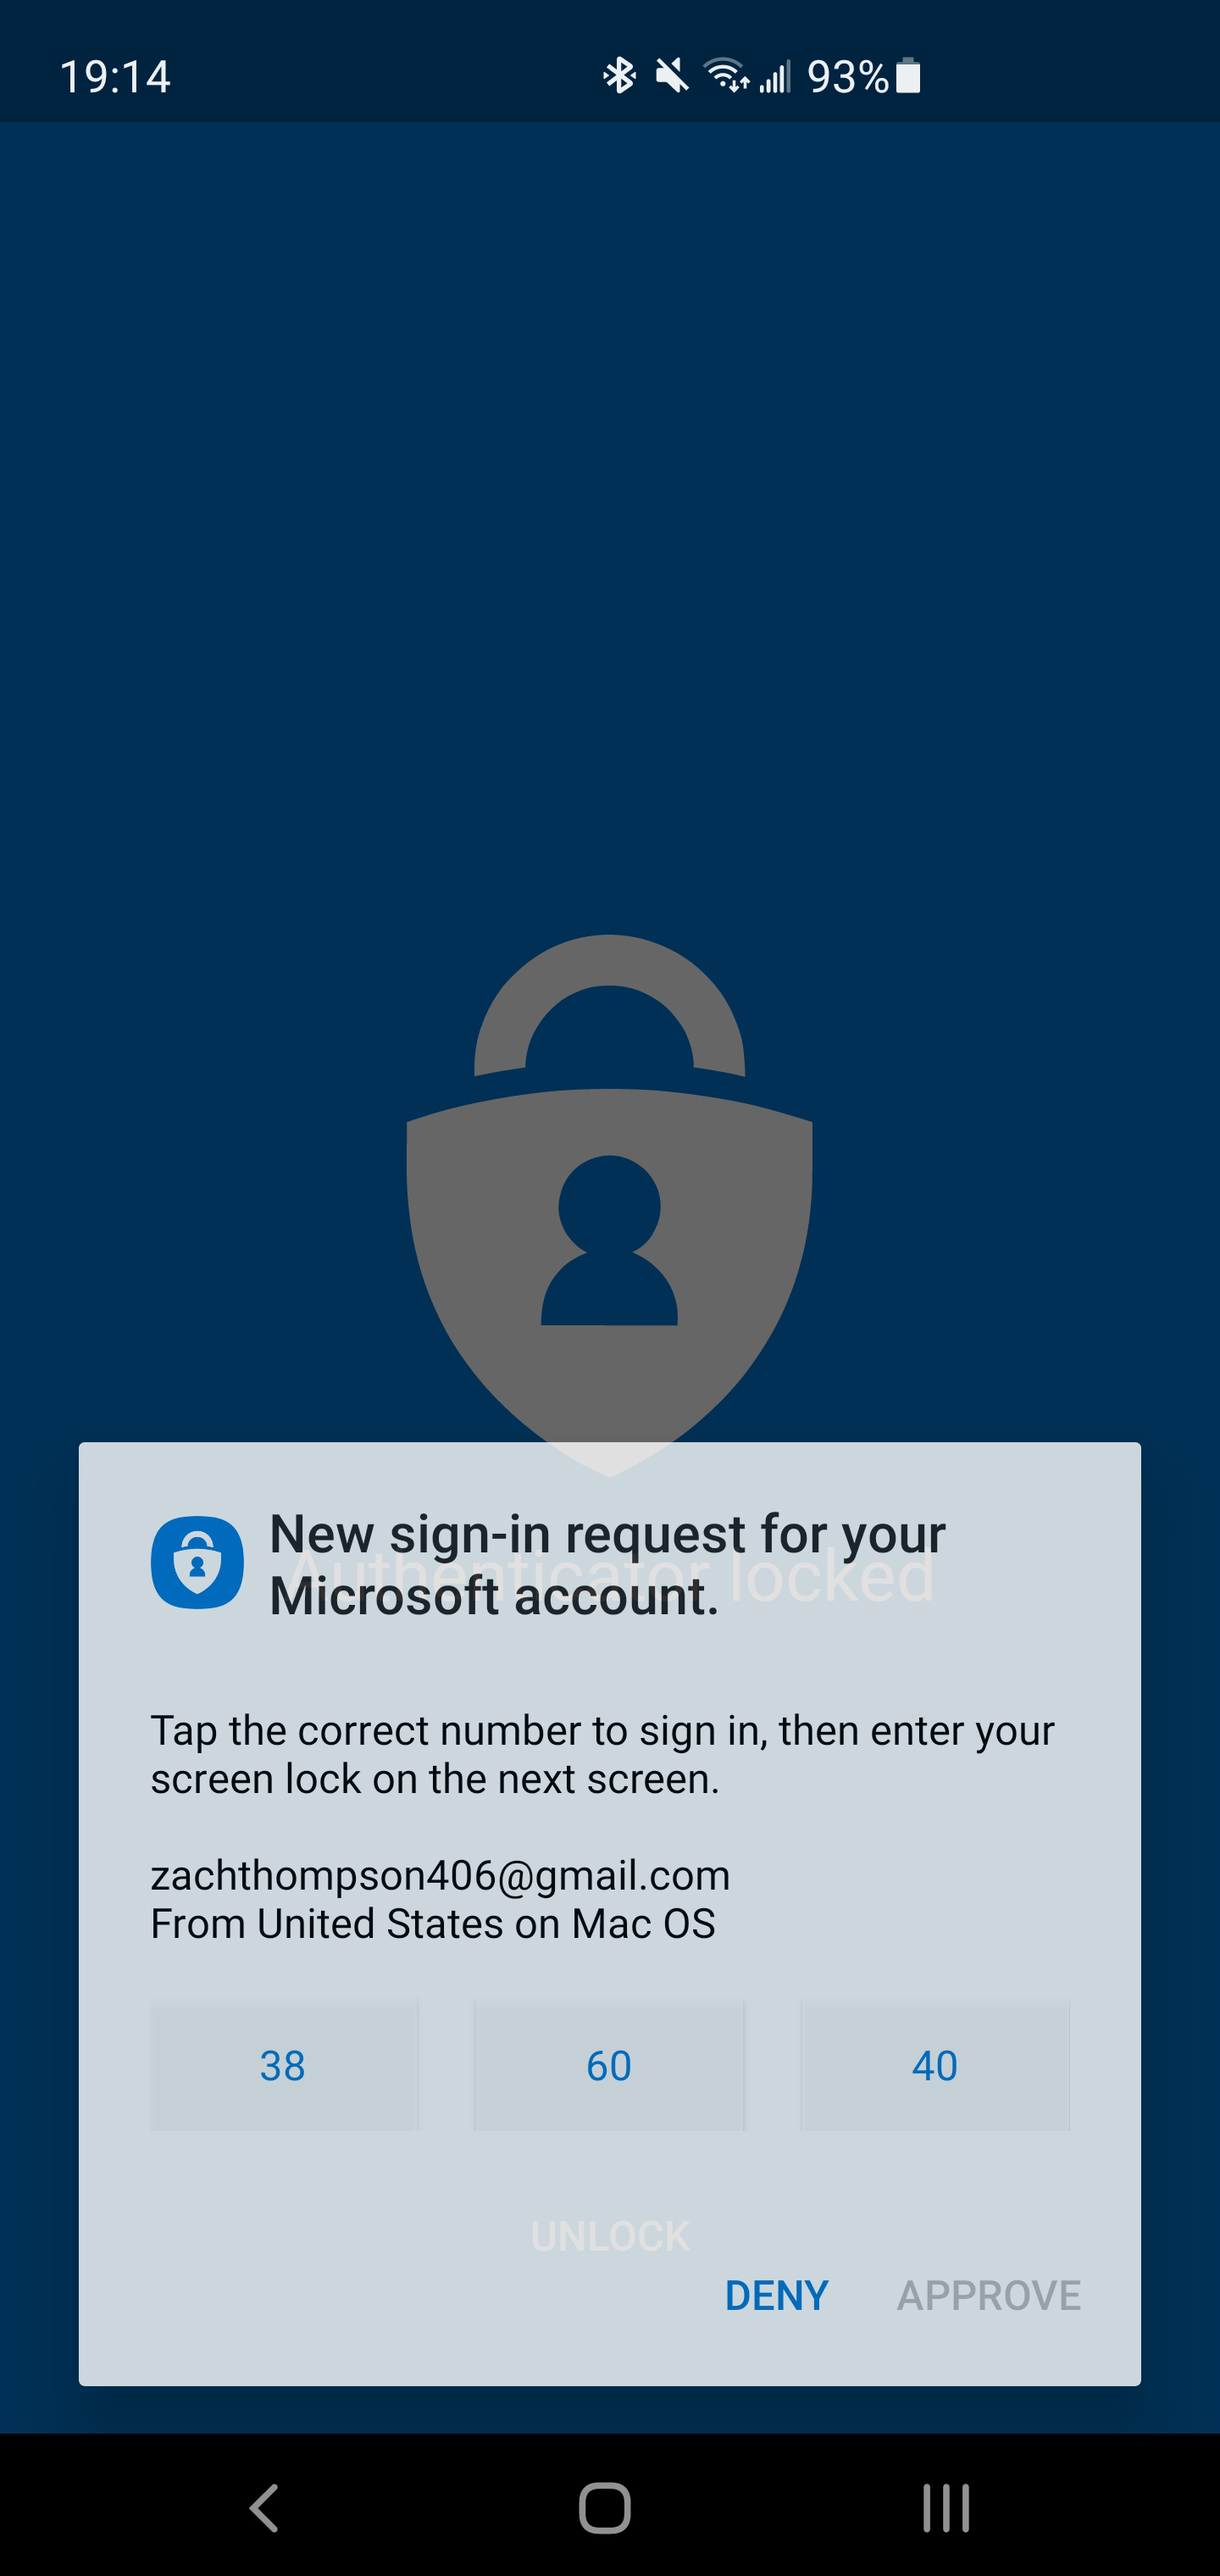
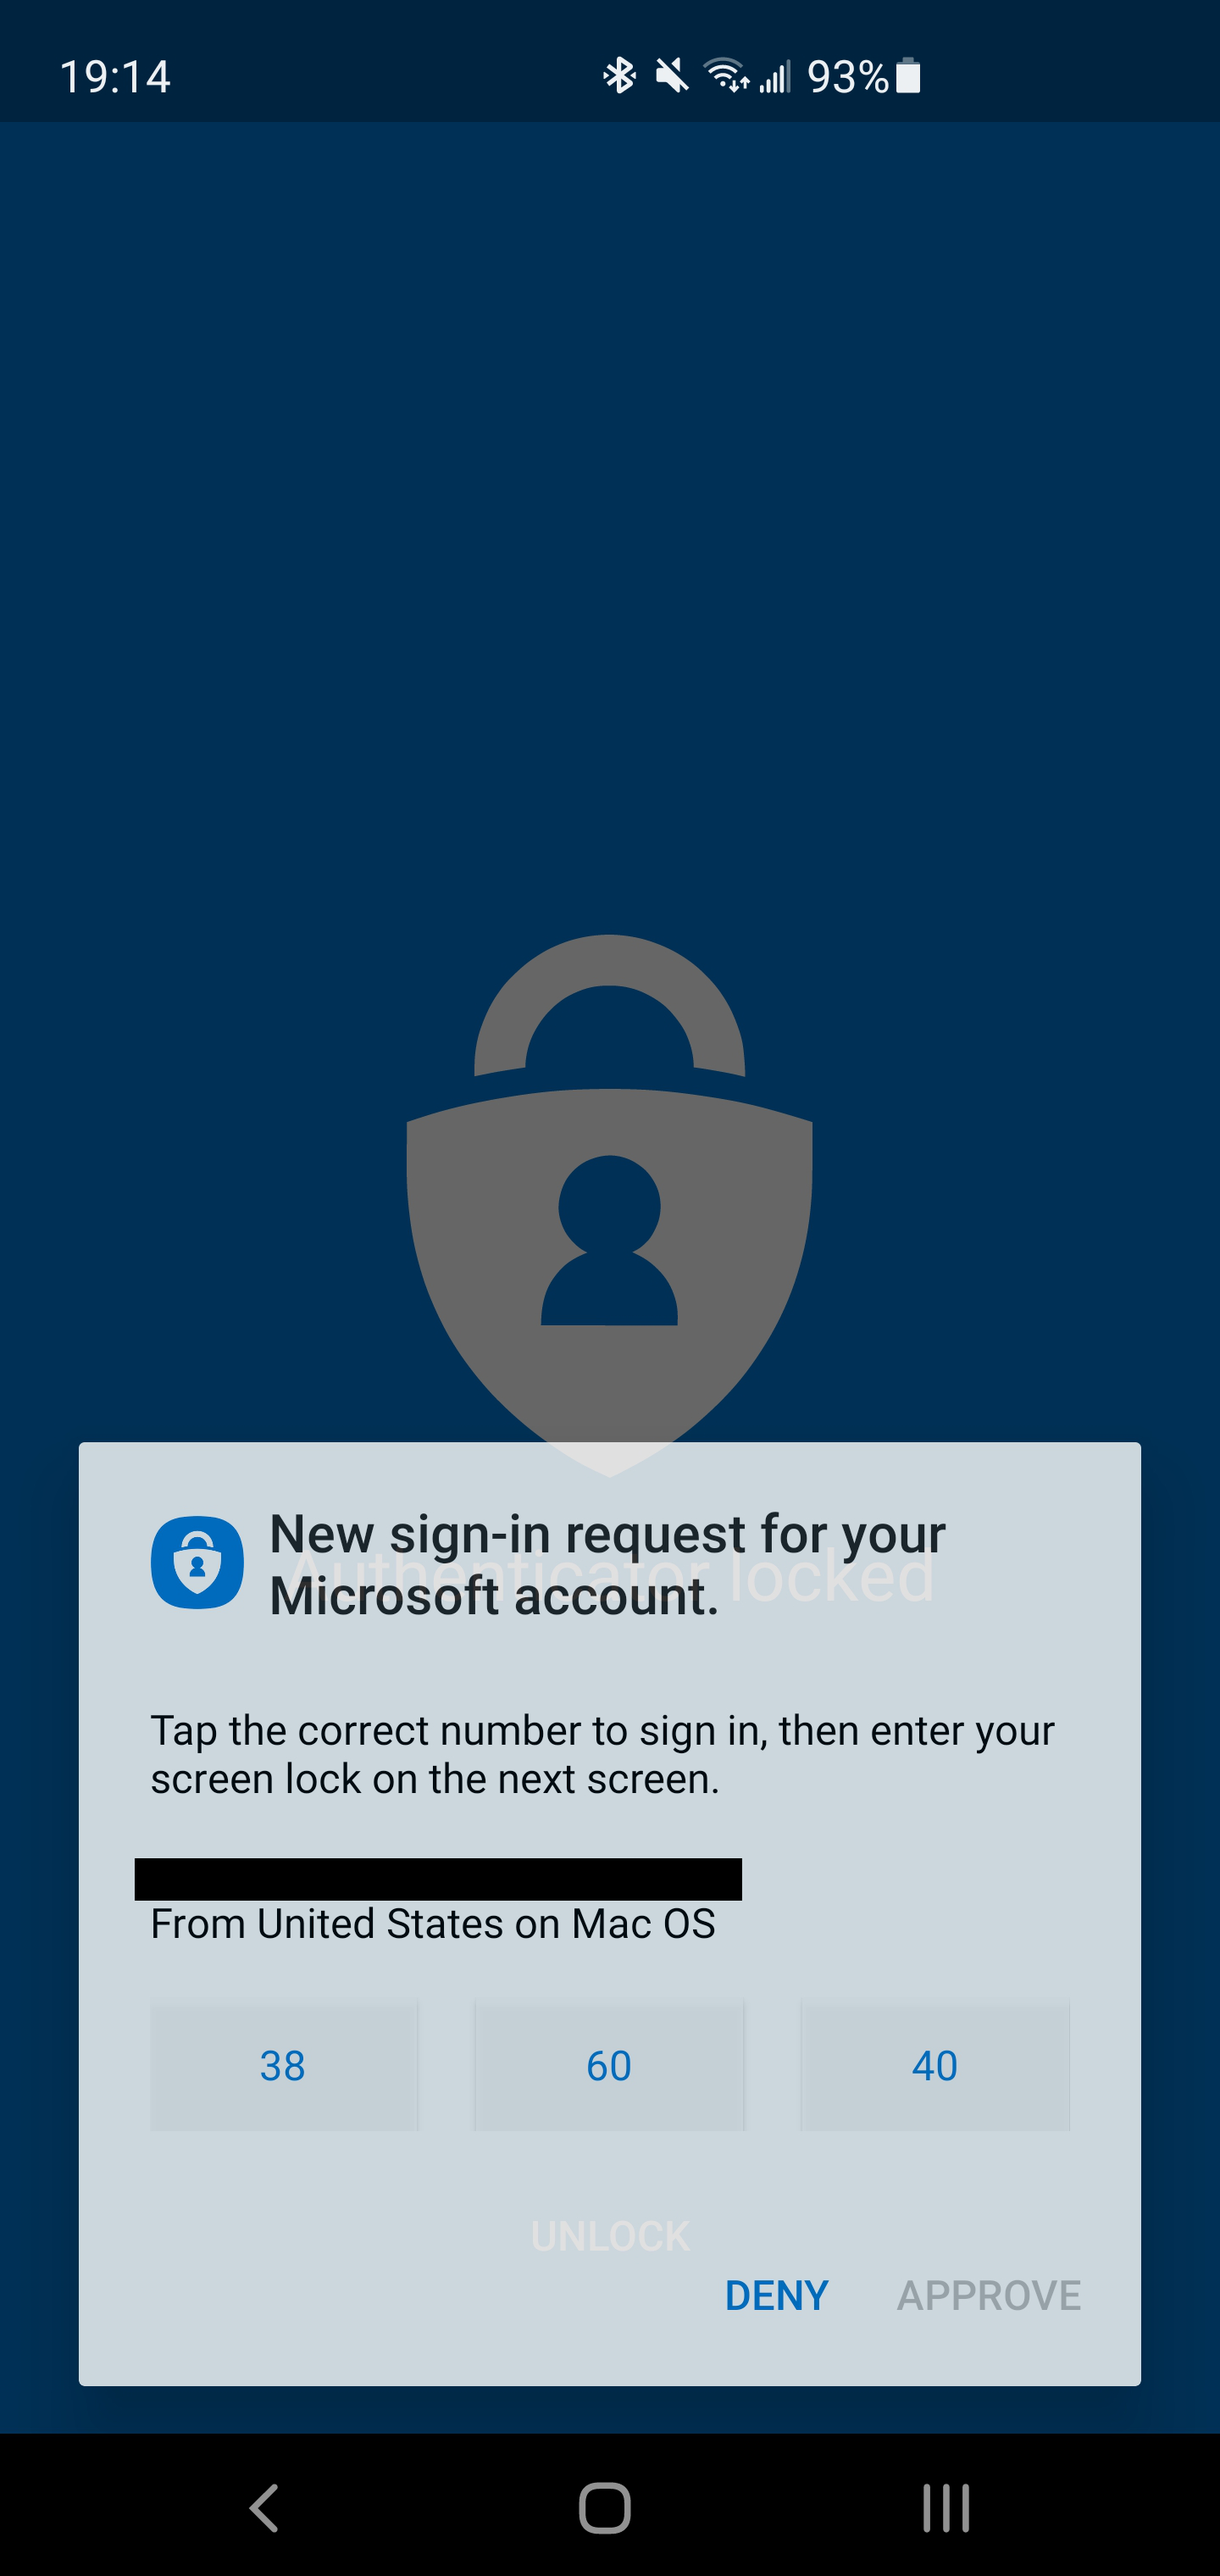
Minor change to main.tex and censor email in pngs

Changed region(s): [[0.0938, 0.7188, 0.625, 0.75]]

diff --git a/main.tex b/main.tex
@@ -20,7 +20,7 @@
 
 \section{Executive Summary}
 Passwordless authentication describes a collection of authentication methods which do not rely on the user remembering and entering a password in order to be authenticated.
-Proponents of passwordless authentication argue it is both more convenient and safer than traditional password-based authentication.
+Proponents of passwordless authentication argue it is both more convenient and more secure than traditional, password-based authentication.
 
 This paper will look at the flaws of password based authentication and analyze whether passwordless authentication can address them.
 It will describe the various methods of passwordless authentication and discuss at their benefits and drawbacks.
